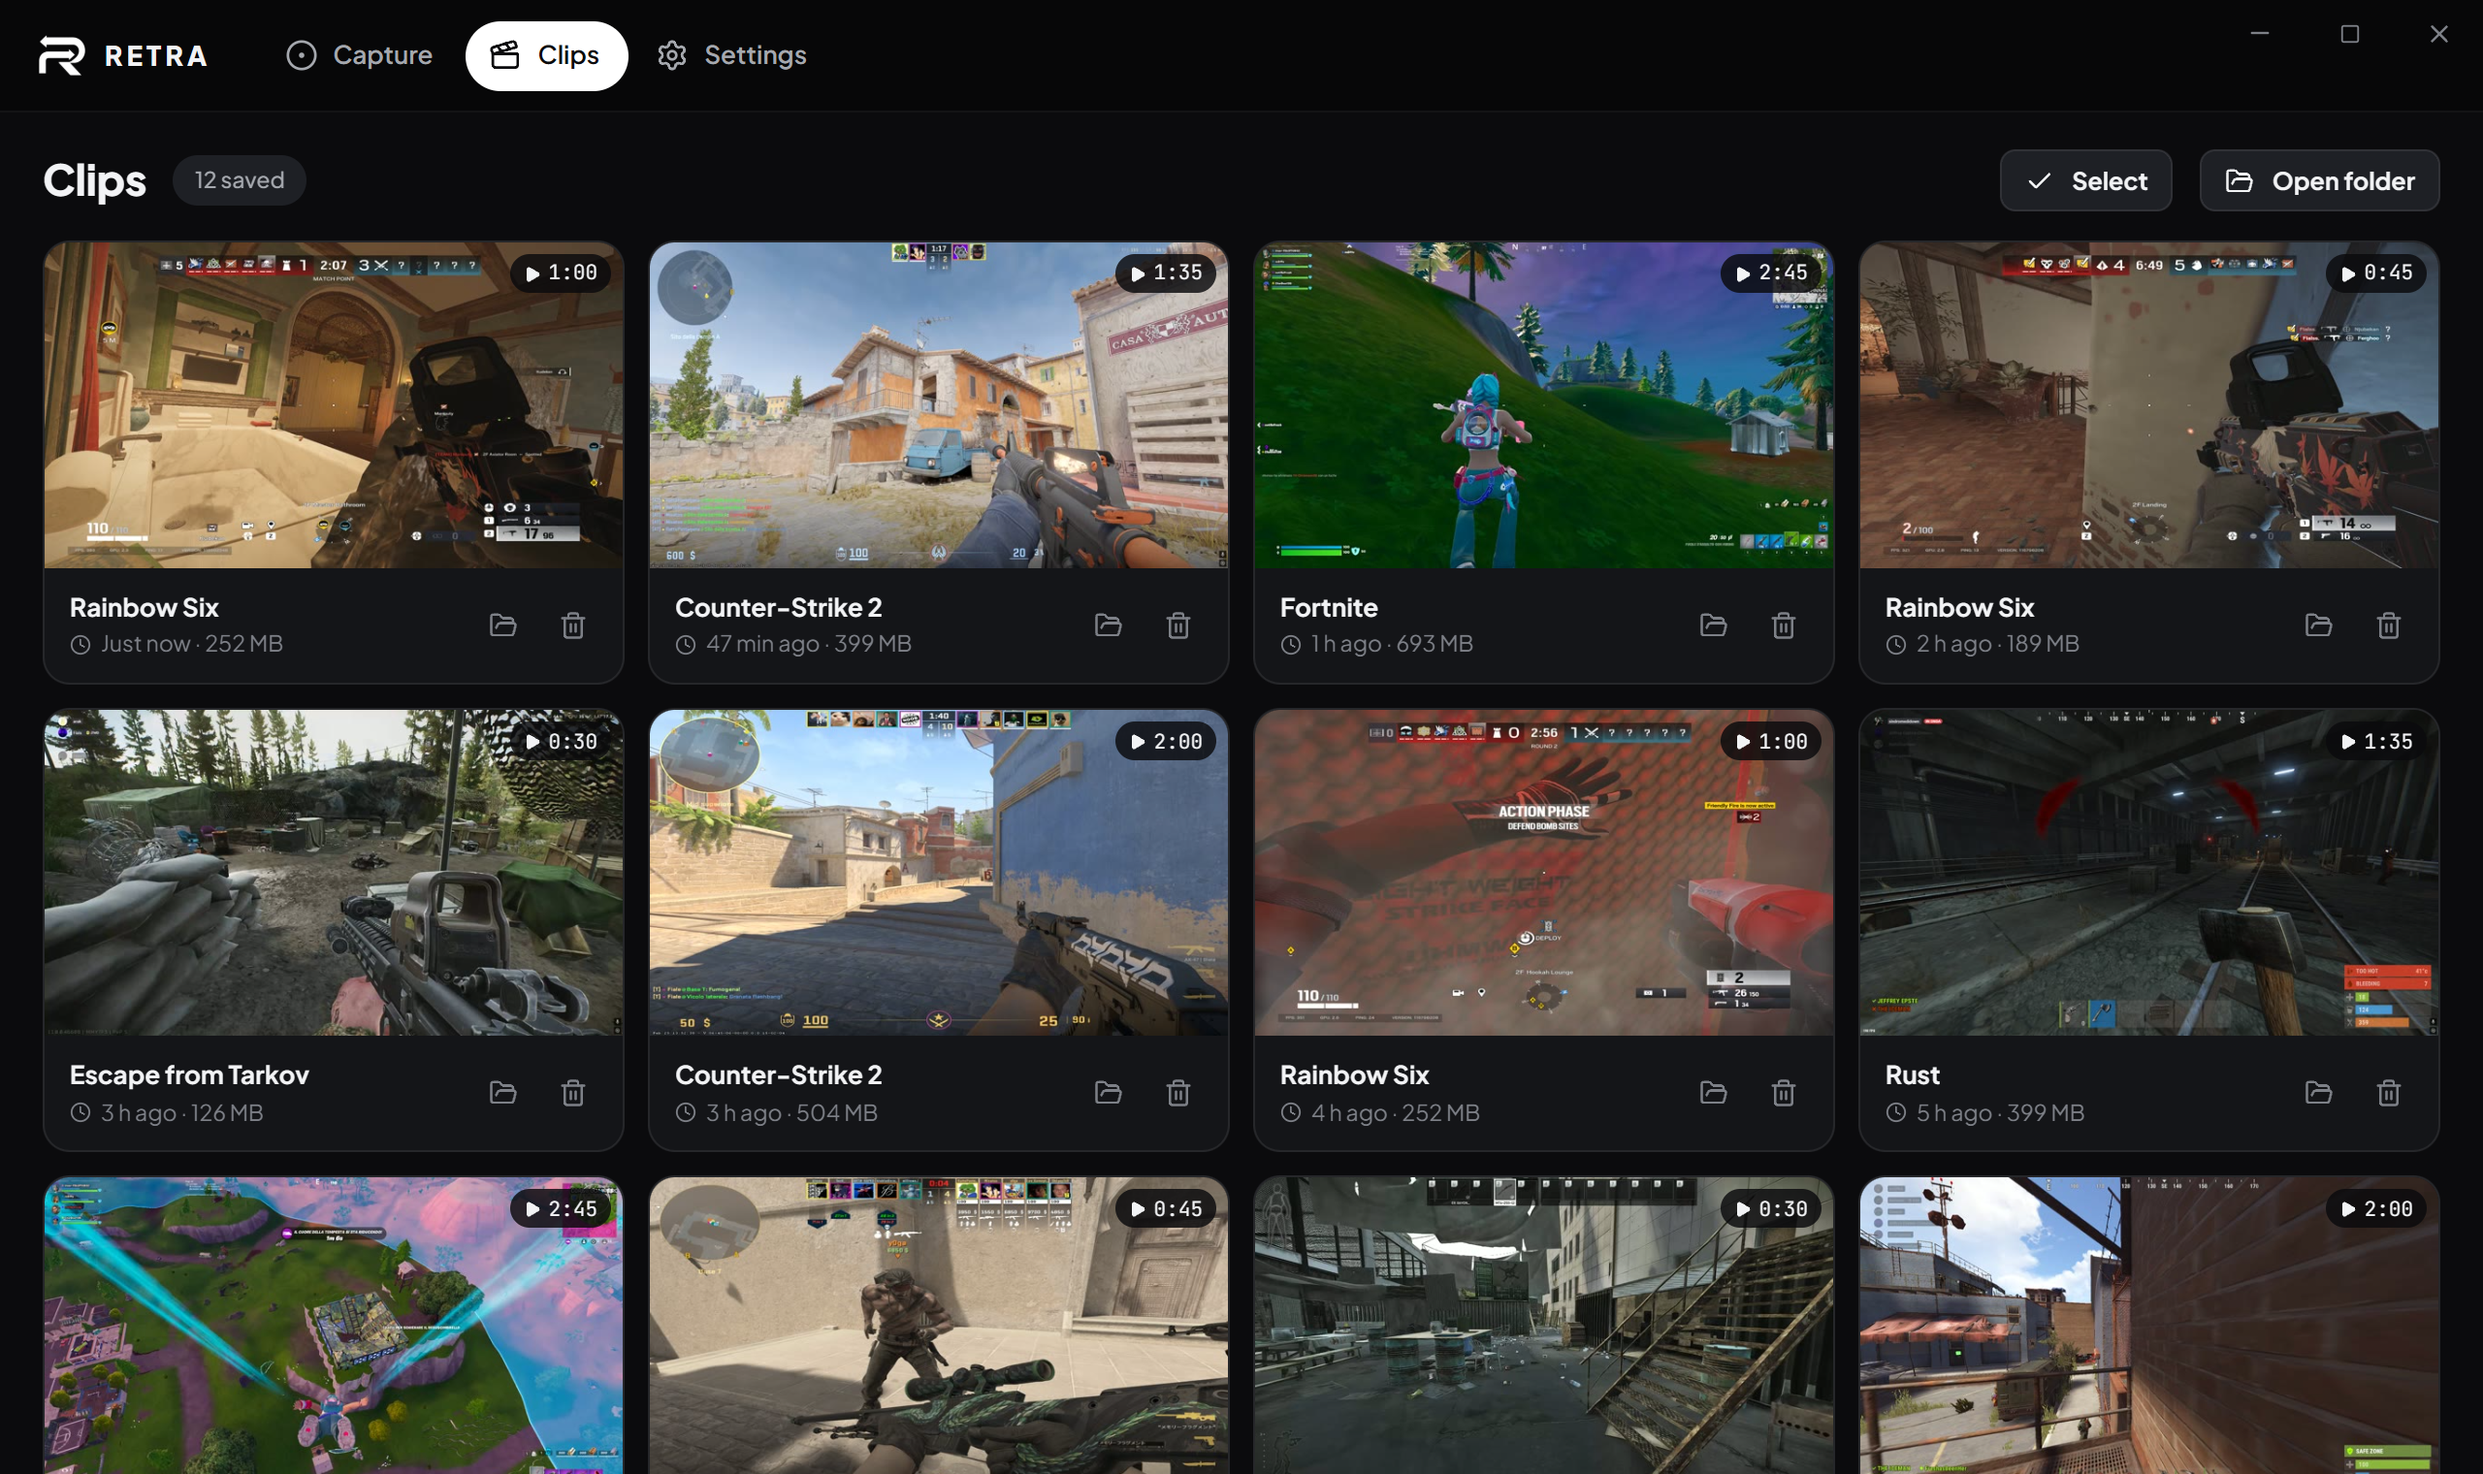
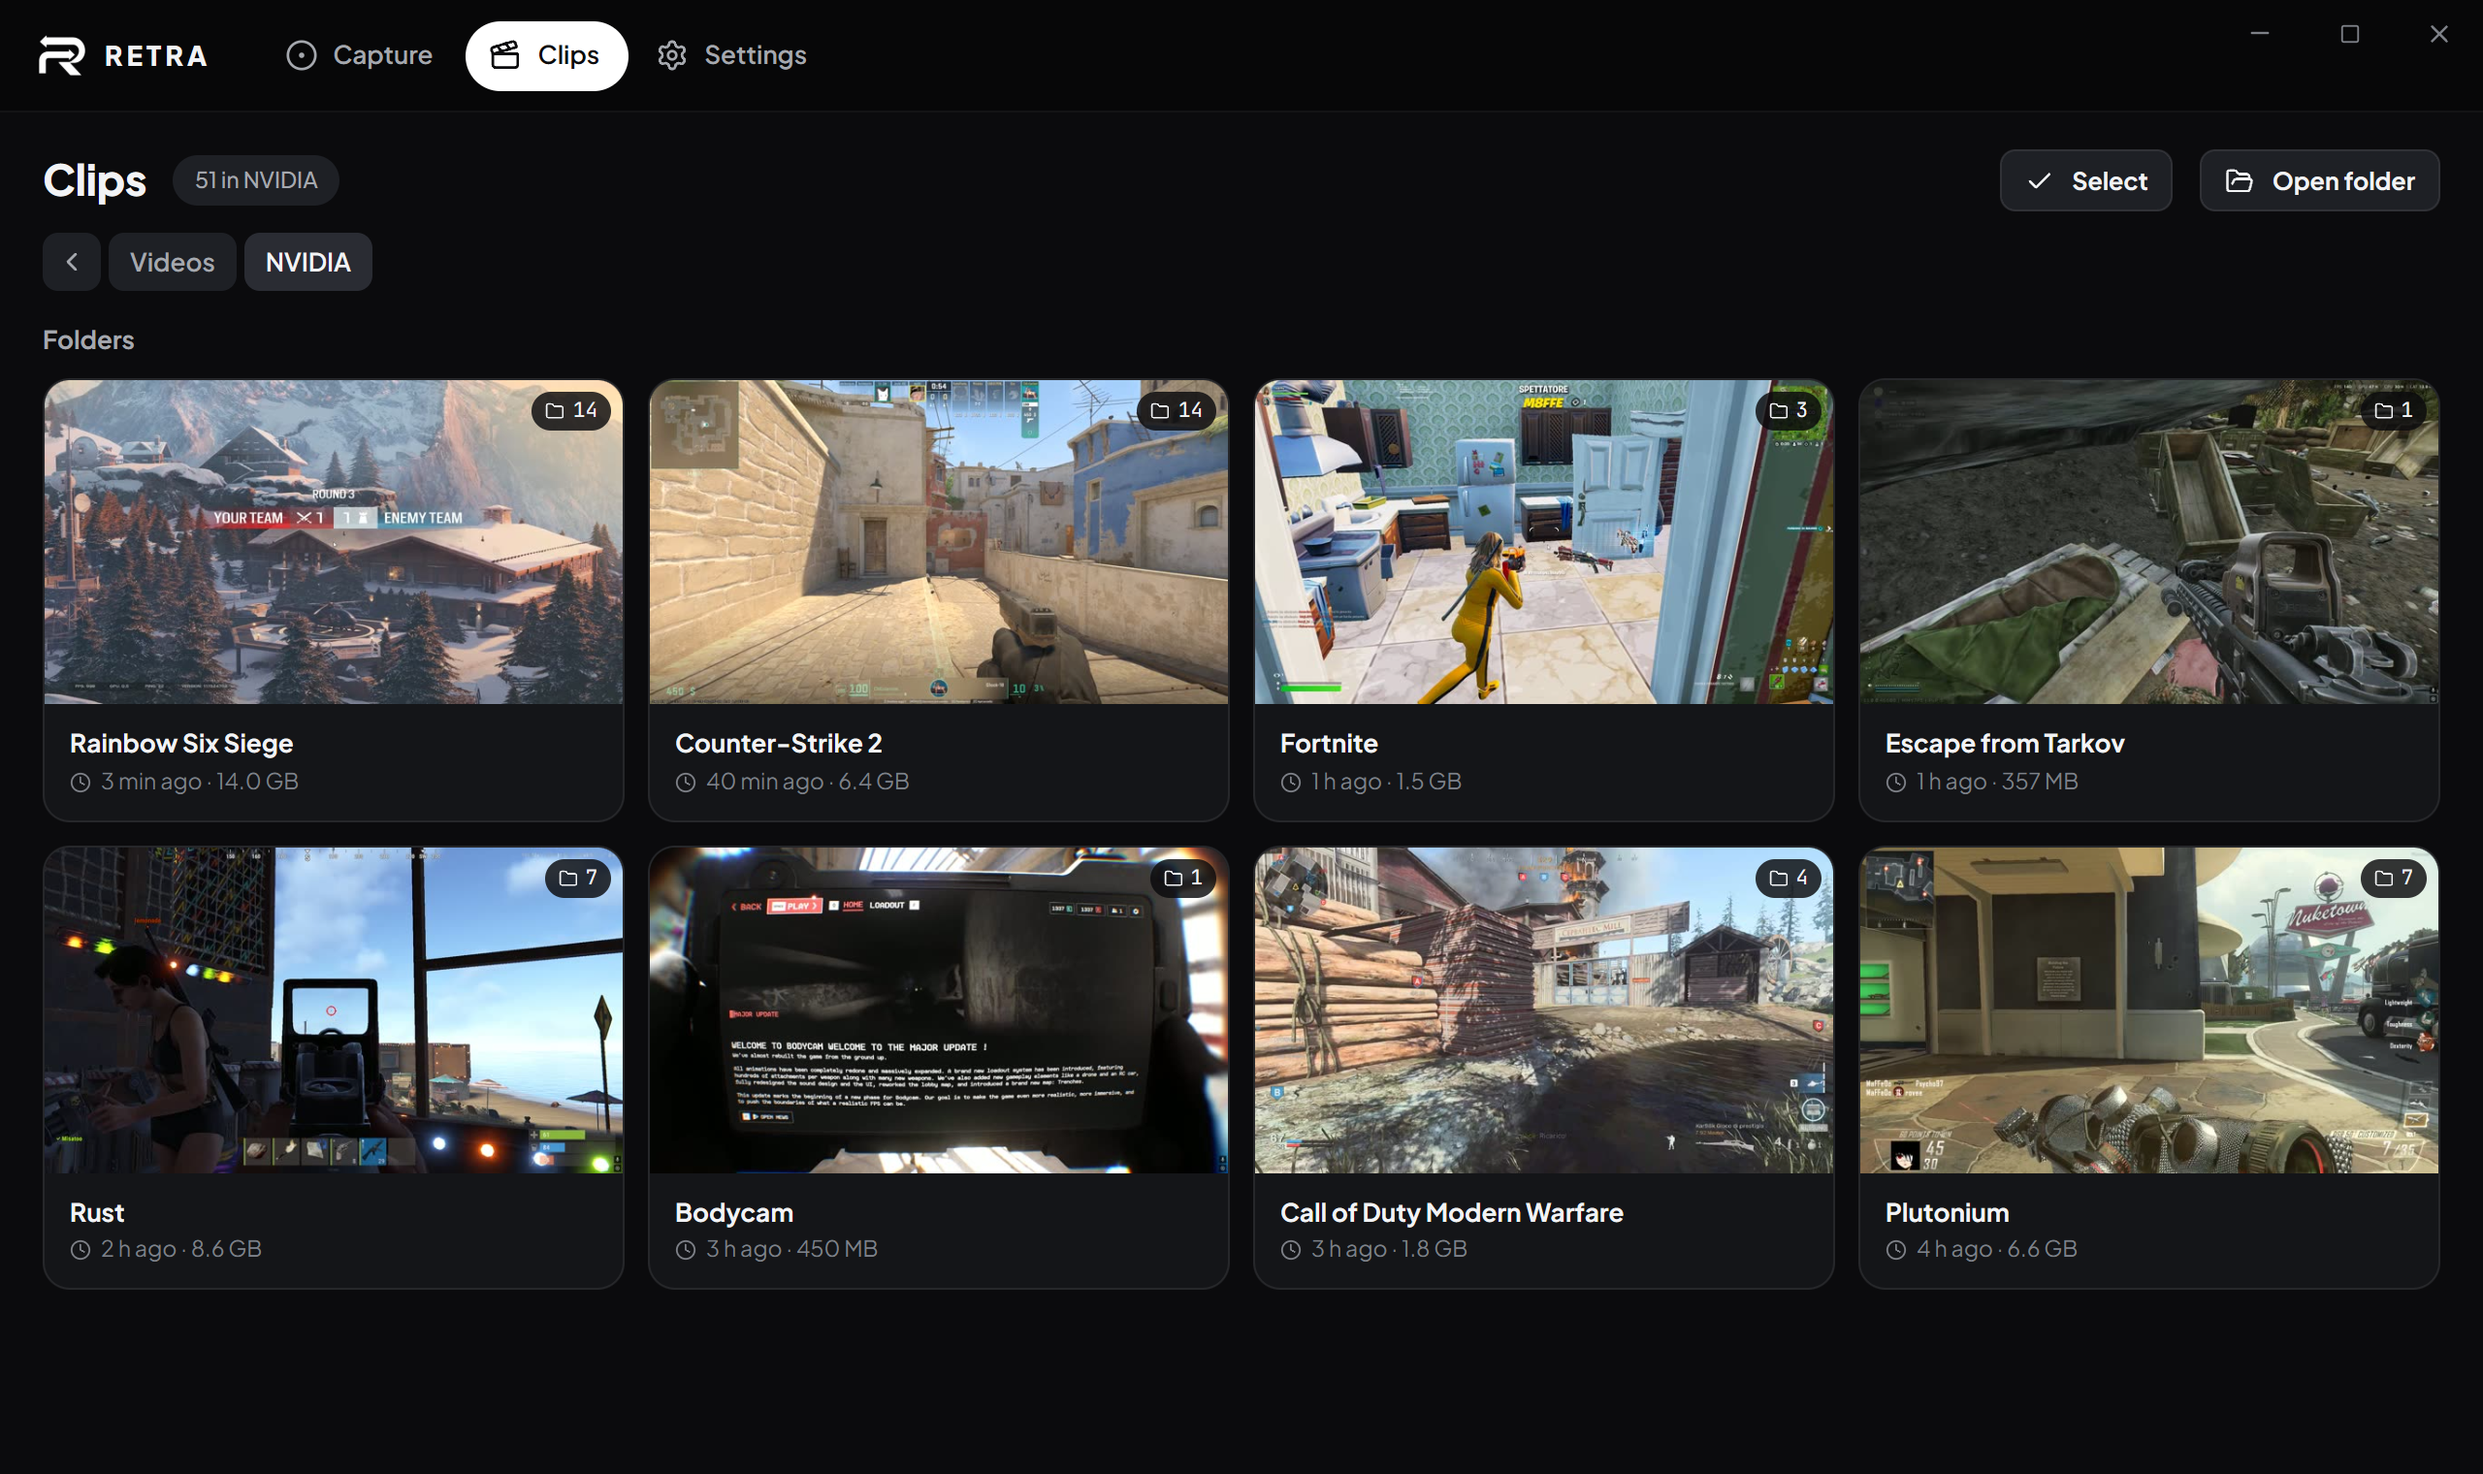
README and Clips screenshot for 0.1.35: folders, per-track volume, Desktop holds everything

diff --git a/README.md b/README.md
@@ -26,12 +26,14 @@
 - **Every display at once** if you like, each recording on its own; a save takes the one your mouse is on.
 - **1 to 12 audio tracks**, each holding any mix of apps: drag them on, name them, pick their icon. Every clip has
   one named audio stream per track, ready for Premiere, DaVinci Resolve or any editor, and tracks that stayed
-  silent aren't in the file at all.
+  silent aren't in the file at all. The Desktop track holds everything, what your PC plays and your mic, for when
+  you just want it all in one.
 - **Your microphone, cleaned up live**: noise suppression, gate, EQ, compressor and your own VST3 plugins, already
   in the replay.
 - **Quick panel over the game** (`Alt+X`): gallery, record, replay, screenshot, per-track volume and every setting.
 - **Clips**: every video in your Videos folder, ShadowPlay's and OBS's too, browsed by folder. Play them with all
-  the tracks in sync, trim them in several pieces, drop or mute tracks, delete several at once.
+  the tracks in sync (Desktop or the separate tracks, never both, so nothing plays twice), turn each track down,
+  trim them in several pieces, drop tracks, delete several at once.
 - **Hardware encoding** on NVIDIA, AMD or Intel GPUs, in H.264, HEVC or AV1; MP4 or MKV.
 - Clips go in a folder per game, named after the game you're playing.
 - Updates itself, or checks right away from Settings.
@@ -45,7 +47,7 @@
   </tr>
   <tr>
     <td><b>Tracks in rows</b>, or as a mixing desk: meters, fader in dB, mute, and the apps on each track.</td>
-    <td><b>Clips</b>: everything in your Videos folder, with Select to delete several at once.</td>
+    <td><b>Clips</b>: your Videos folder by folder, a folder per game, with how much space each takes.</td>
   </tr>
   <tr>
     <td><img src="docs/settings.png" alt="Settings" /></td>
